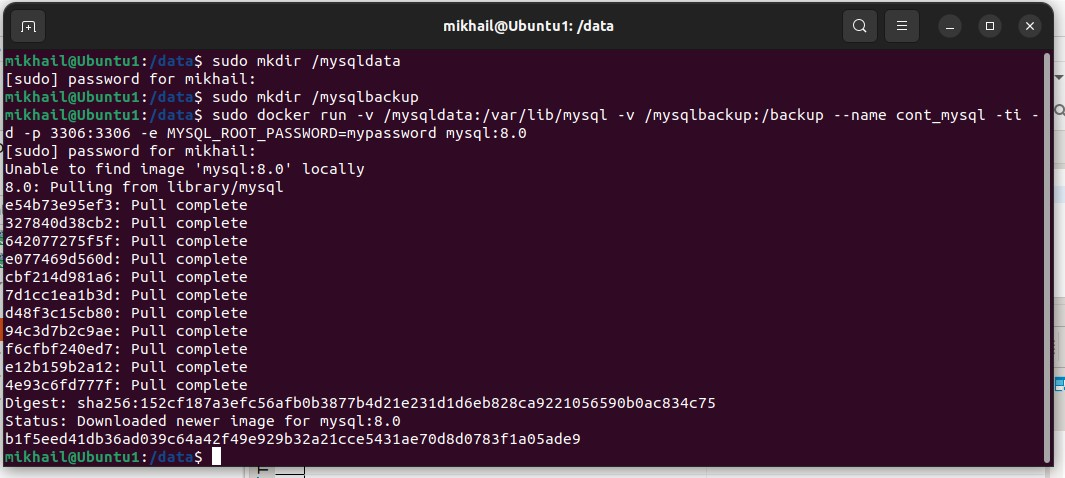
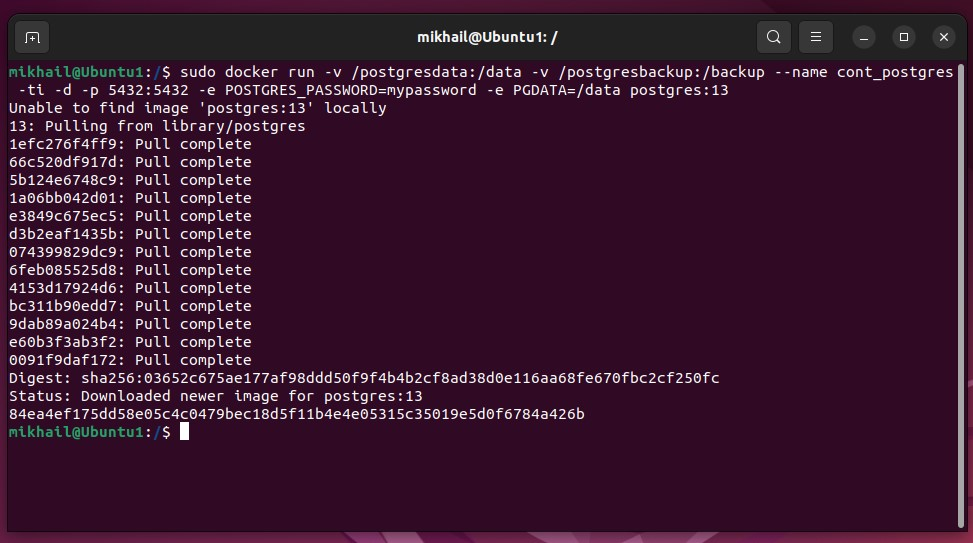
temp commit

Changed region(s): [[0.0, 0.0, 1.0, 1.0]]

diff --git a/README.md b/README.md
@@ -1,72 +1,5 @@
 
-## Домашнее задание к занятию 6.3 MYSQL ##
+## Домашнее задание к занятию 6.4 PostgreSQL ##
 
 ### Задача 1 ###
 
-#### Используя docker поднимите инстанс MySQL (версию 8). Данные БД сохраните в volume. ####
-
-![img.png](img.png)
-
-#### Изучите бэкап БД и восстановитесь из него.  ####
-
-![img_1.png](img_1.png)
-
-#### Перейдите в управляющую консоль mysql внутри контейнера. ####
-#### Используя команду \h получите список управляющих команд. ####
-
-![img_2.png](img_2.png)
-
-### Найдите команду для выдачи статуса БД и приведите в ответе из ее вывода версию сервера БД. ####
-
-![img_3.png](img_3.png)
-
-#### Подключитесь к восстановленной БД и получите список таблиц из этой БД. ####
-#### Приведите в ответе количество записей с price > 300. ####
-
-![img_4.png](img_4.png)
-
-### Задача 2 ###
-
-#### Создайте пользователя test в БД c паролем test-pass, используя: ####
- #### плагин авторизации mysql_native_password ####
- #### срок истечения пароля - 180 дней ####
- #### количество попыток авторизации - 3 ####
- #### максимальное количество запросов в час - 100 ####
- #### аттрибуты пользователя: ####
- #### Фамилия "Pretty" ####
- #### Имя "James" ####
-
-![img_5.png](img_5.png)
-
-#### Предоставьте привелегии пользователю test на операции SELECT базы test_db #### 
-#### Используя таблицу INFORMATION_SCHEMA.USER_ATTRIBUTES получите данные по пользователю test и приведите в ответе к задаче ####
-
-![img_6.png](img_6.png) 
-
-### Задача 3 ###
-
-#### Установите профилирование SET profiling = 1. Изучите вывод профилирования команд SHOW PROFILES; ####
-
-![img_7.png](img_7.png)
-
-#### Исследуйте, какой engine используется в таблице БД test_db и приведите в ответе. ####
-#### Измените engine и приведите время выполнения и запрос на изменения из профайлера в ответе: ####
-
-![img_8.png](img_8.png)
-
-### Задача 4 ###
-
-#### Изучите файл my.cnf в директории /etc/mysql. ####
-#### Измените его согласно ТЗ (движок InnoDB): #### 
-
-#### - Скорость IO важнее сохранности данных ####
-#### - Нужна компрессия таблиц для экономии места на диске ####
-#### - Размер буффера с незакомиченными транзакциями 1 Мб ####
-#### - Буффер кеширования 30% от ОЗУ ####
-#### - Размер файла логов операций 100 Мб ####
-
-К сожалению в образе контейнера mysql нет втроенных редакторов, поэтому менял нужные параметры командами
-
-![img_9.png](img_9.png)
-
-Но как видно из скриншота, параметр производительности и размер файла логов операций таким образом не удалось перезаписать на ходу. Надеюсь, это не повлияет на оценивание, так как вроде бы не имеет принципиального отношения к сути задания. 
